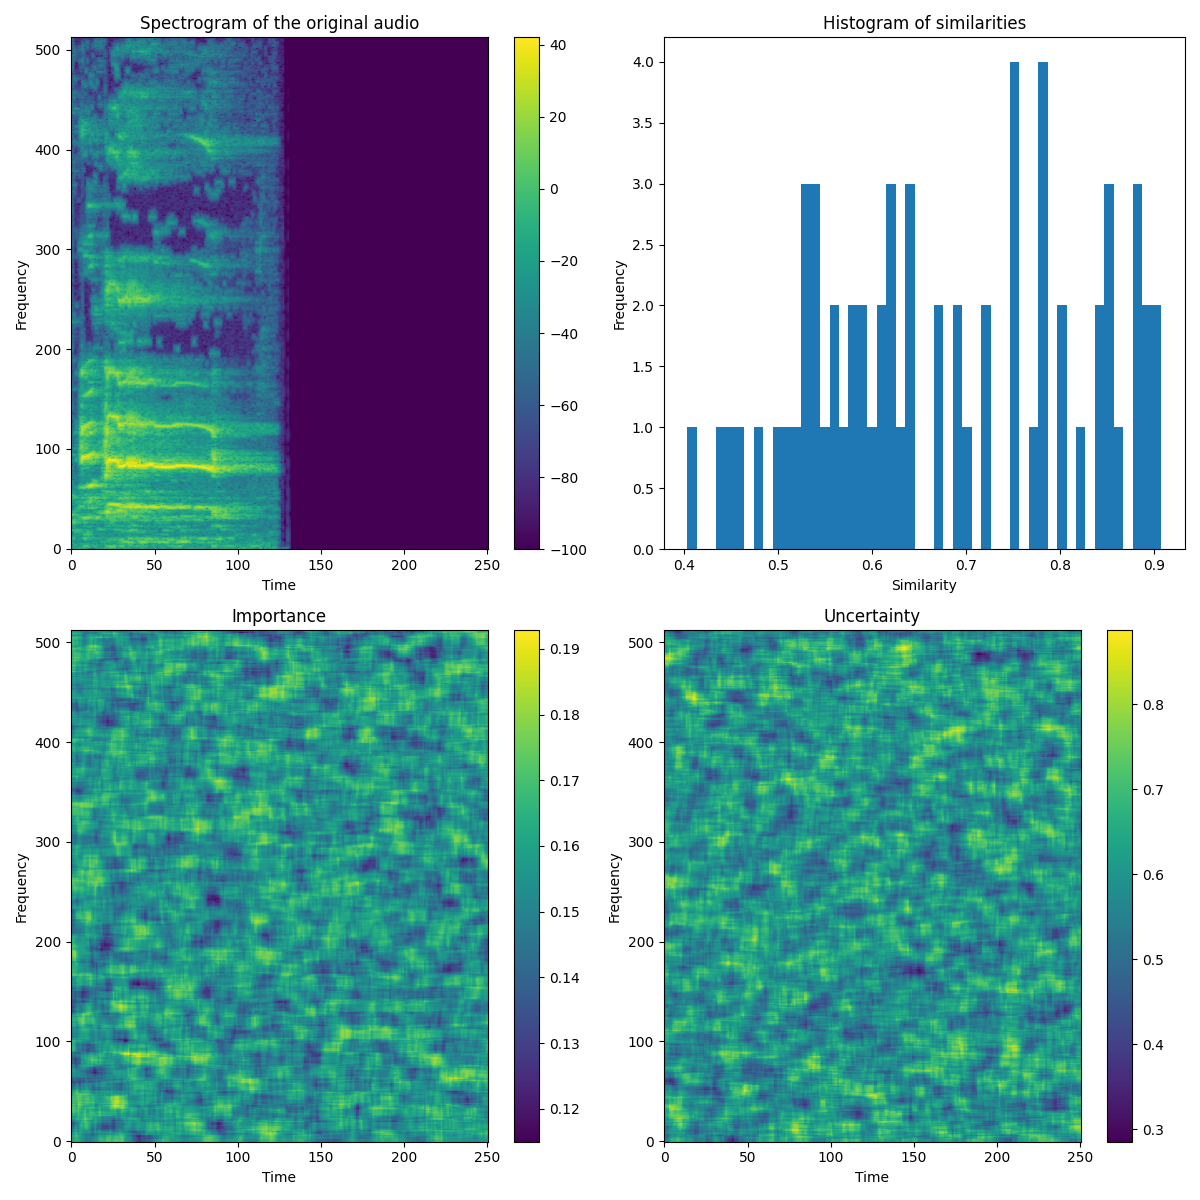
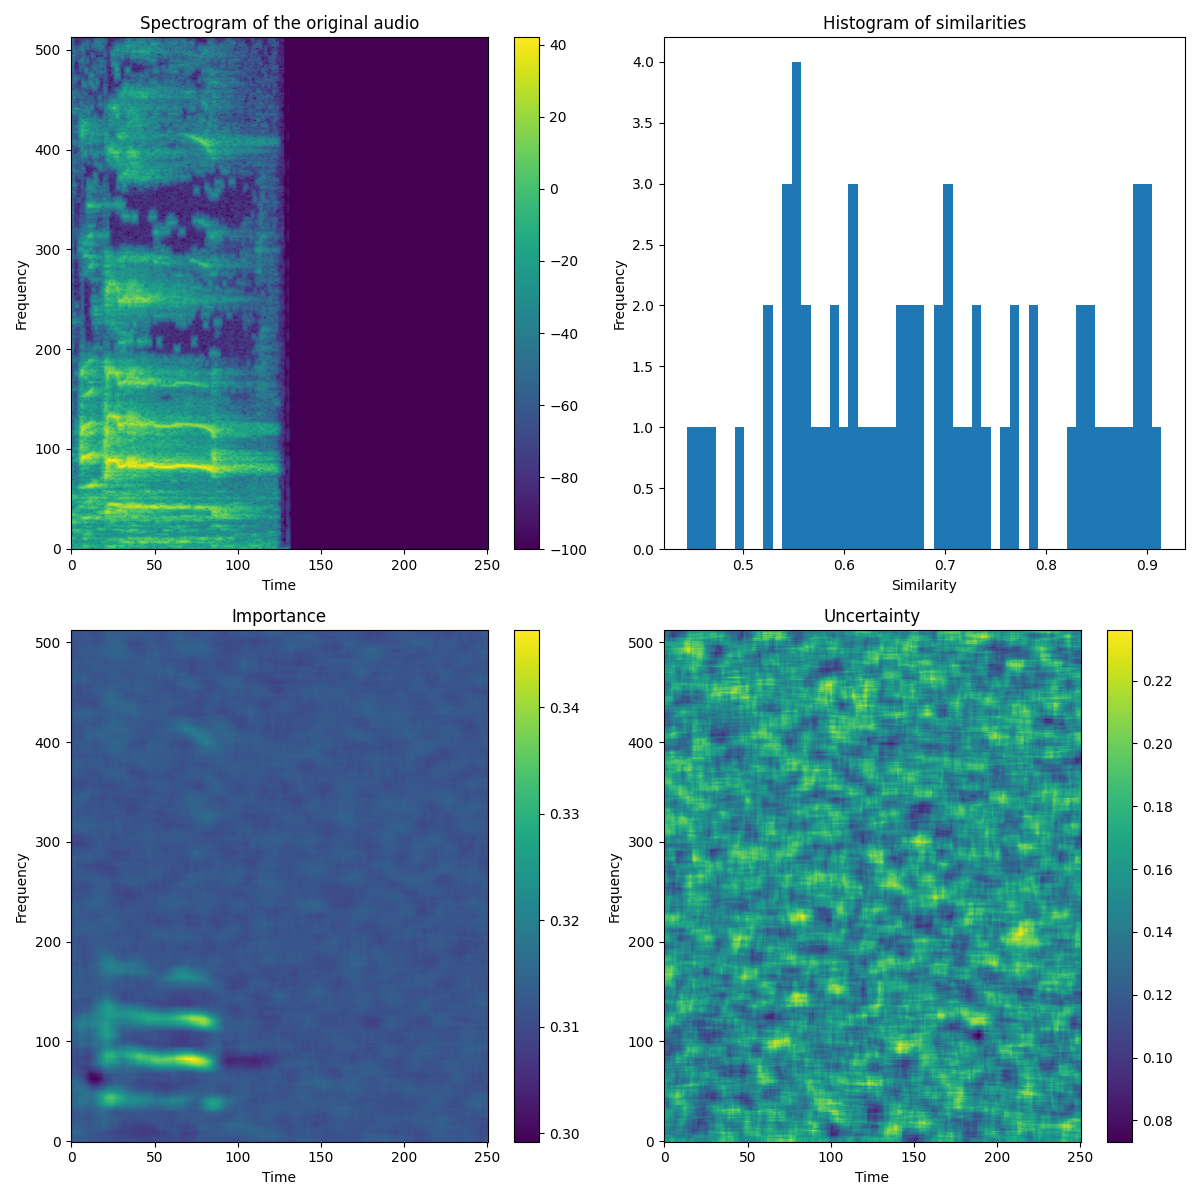
ROOSTER <3

diff --git a/run_batched_relax.py b/run_batched_relax.py
@@ -12,7 +12,7 @@ import matplotlib.pyplot as plt
 
 # Settings classes
 class RelaxSettings:
-    num_of_batches: int = 2  # Number of batches
+    num_of_batches: int = 360  # Number of batches
     num_of_masks: int = 64  # Number of masks per batch
     
 class AudioSettings:
